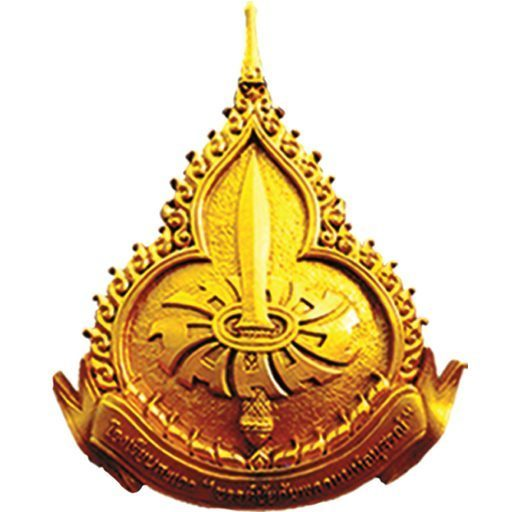
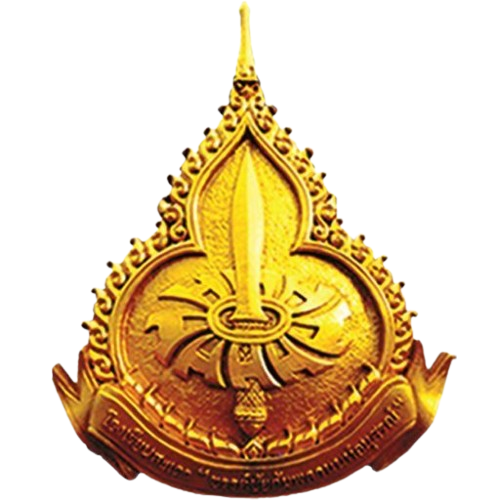
Add files via upload

diff --git a/assets/style.css b/assets/style.css
@@ -1,23 +1,9 @@
-:root{color-scheme:light;--purple:#7851c8;--ink:#37254f;--muted:#81708f;--edge:#ffffffc9;--glass:#ffffff85;--shadow:0 22px 60px #68459c19,0 4px 12px #7951b80c}*{box-sizing:border-box}body{margin:0;min-height:100vh;min-height:100svh;background:#f0e9fc;color:var(--ink);font-family:"Leelawadee UI","Noto Sans Thai",Tahoma,sans-serif;font-size:15px;line-height:1.6}button,input{font:inherit}button{cursor:pointer;-webkit-tap-highlight-color:transparent}[hidden]{display:none!important}.glass-scene{position:fixed;inset:0;overflow:hidden;pointer-events:none;z-index:-1;background:linear-gradient(135deg,#f8f5ff 0%,#e8def9 50%,#f5eefa 100%)}.color-pool{position:absolute;border-radius:50%;filter:blur(45px);opacity:.75;animation:flow 20s ease-in-out infinite alternate}.pool-one{width:430px;height:430px;background:radial-gradient(circle,#b491ec,#d6bdf5 65%,transparent 75%);top:-180px;left:calc(50% - 440px)}.pool-two{width:400px;height:400px;background:radial-gradient(circle,#d2afe8,#e3c9f4 65%,transparent 75%);top:280px;right:calc(50% - 520px);animation-delay:-9s;animation-duration:25s}.pool-three{width:330px;height:330px;background:radial-gradient(circle,#bfc2f9,#d8d6fb 65%,transparent 75%);bottom:-170px;left:calc(50% - 370px);animation-delay:-14s}.glass-orb{position:absolute;border-radius:50%;border:1px solid #ffffffbb;background:radial-gradient(circle at 26% 20%,#ffffffa1,transparent 46%),linear-gradient(140deg,#ffffff22,#c1a2e64d);box-shadow:inset 4px 6px 15px #ffffffc2,inset -8px -10px 24px #a880ca30,0 18px 35px #8a66ba18;animation:bob 9s ease-in-out infinite}.orb-one{width:106px;height:106px;left:calc(50% - 420px);top:22%}.orb-two{width:65px;height:65px;right:calc(50% - 397px);top:66%;animation-delay:-4s}main{width:min(620px,calc(100% - 36px));margin:clamp(48px,11vh,120px) auto 45px;animation:page-in .6s ease both}.search-shell{position:relative;isolation:isolate;padding:34px 30px 30px;border:1px solid var(--edge);border-radius:32px;background:linear-gradient(140deg,#ffffffa6,#ffffff63);box-shadow:var(--shadow),inset 0 1px 1px #ffffffed,inset 0 -1px 1px #ffffff70;backdrop-filter:blur(26px) saturate(145%);-webkit-backdrop-filter:blur(26px) saturate(145%)}.search-shell:before{content:"";position:absolute;inset:0;border-radius:inherit;pointer-events:none;background:linear-gradient(120deg,#ffffff8c,transparent 25% 74%,#ffffff32);z-index:-1}header{text-align:center;padding:0 0 25px}.search-emblem{position:relative;display:grid;place-items:center;width:62px;height:62px;border-radius:22px;margin:0 auto 17px;background:linear-gradient(145deg,#b48bea,#8253c8);border:1px solid #ffffff8c;box-shadow:0 12px 20px #8253c833,0 2px 5px #764ba21c,inset 0 2px 3px #ffffff8a,inset 0 -3px 6px #6f3cb44d;animation:icon-float 7s ease-in-out infinite;overflow:hidden}.search-emblem:after{content:"";position:absolute;inset:-40%;background:linear-gradient(110deg,transparent 35%,#ffffff47 49%,transparent 63%);transform:translateX(-100%);animation:sheen 8s ease-in-out infinite}.search-emblem svg{width:30px;height:30px;fill:none;stroke:white;stroke-width:1.9;stroke-linecap:round;filter:drop-shadow(0 2px 1px #66339833)}h1{font-size:29px;line-height:1.45;letter-spacing:-.5px;font-weight:750;margin:0;color:#49315f;text-shadow:0 1px 0 #fff}header p{display:inline-flex;align-items:center;gap:10px;color:#8b739f;font-size:12px;margin:10px 0 0}header p span{font-size:10px;background:#ffffff78;border:1px solid #ffffffa6;border-radius:8px;color:#987aaf;padding:2px 7px}.search-box{display:flex;align-items:center;min-width:0;border:1px solid #d5c5eab3;border-radius:18px;background:#ffffffad;box-shadow:inset 0 2px 5px #7551a60d,0 2px 0 #ffffffd9,0 5px 18px #7951b808;transition:border-color .2s,box-shadow .2s,background .2s;backdrop-filter:blur(14px);-webkit-backdrop-filter:blur(14px)}.search-box:focus-within{border-color:#ae86df;background:#ffffffe0;box-shadow:0 0 0 4px #a77edb14,0 8px 25px #7951b814,inset 0 1px 3px #7951b808}.search-box>svg{width:23px;height:23px;fill:none;stroke:#a184b9;stroke-width:1.7;stroke-linecap:round;margin-left:17px;flex-shrink:0;transition:stroke .2s,transform .2s}.search-box:focus-within>svg{stroke:#8652ba;transform:scale(1.05)}input{width:100%;min-width:0;border:0;background:transparent;outline:none;color:var(--ink);font-size:15px;padding:18px 12px}input::placeholder{color:#ad9abc}input::-webkit-search-cancel-button{display:none}.clear{flex-shrink:0;border:1px solid transparent;background:transparent;color:#a28cb5;width:31px;height:31px;margin-right:11px;border-radius:10px;font-size:23px;transition:background .2s,transform .2s}.clear:hover{background:#f2eaf9;border-color:#e5d5f1;transform:scale(1.05)}button:focus-visible{outline:3px solid #ac83d7;outline-offset:3px}.results-section{margin-top:24px;scroll-margin-top:22px}#summary{font-size:11px;color:#8a719d;margin:0 4px 12px}.cards{display:grid;gap:13px}.result-card{position:relative;isolation:isolate;display:flex;align-items:center;justify-content:space-between;gap:18px;padding:20px 22px;border:1px solid #ffffffcc;border-radius:23px;background:linear-gradient(130deg,#ffffffbb,#ffffff6b);box-shadow:0 8px 24px #68459c10,0 1px 4px #7951b809,inset 0 1px 0 #fffffff0;backdrop-filter:blur(20px) saturate(130%);-webkit-backdrop-filter:blur(20px) saturate(130%);transition:transform .2s,box-shadow .2s,border-color .2s}.result-card[data-enter="true"]{animation:card-in .35s cubic-bezier(.2,.8,.2,1) both;animation-delay:var(--delay,0ms)}.result-card:before{content:"";position:absolute;inset:0;border-radius:inherit;pointer-events:none;z-index:-1;background:linear-gradient(110deg,#ffffff66,transparent 45%);opacity:.6;transition:opacity .2s}.result-card:hover{transform:translateY(-3px);border-color:#fff;box-shadow:0 17px 32px #68459c1c,0 3px 8px #7951b80b,inset 0 1px 0 #fff}.result-card:hover:before{opacity:1}.candidate{min-width:0}.candidate h2{font-size:16px;line-height:1.6;font-weight:650;margin:0;overflow-wrap:anywhere}.candidate-meta{display:flex;align-items:center;gap:10px;flex-wrap:wrap;font-size:11px;color:#9b86ad;margin-top:8px}.level{border:1px solid #ffffffbd;border-radius:8px;padding:3px 9px;background:linear-gradient(135deg,#eee3fbb3,#f4edfb8c);color:#8a62ac;white-space:nowrap;box-shadow:0 2px 5px #7951b808,inset 0 1px 0 #ffffffa8;font-weight:600}.room{position:relative;text-align:center;flex-shrink:0;min-width:76px;padding:10px 14px;border:1px solid #ffffffb5;border-radius:17px;background:linear-gradient(145deg,#f3eafa,#e1d0f4b3);box-shadow:0 7px 15px #8662b51a,inset 0 2px 2px #ffffffb8,inset 0 -2px 5px #b79aca21;transition:transform .2s}.result-card:hover .room{transform:translateY(-1px)}.room span{display:block;color:#9d80b6;font-size:10px}.room strong{display:block;color:#8051ba;font-size:31px;line-height:1.3;font-weight:750;text-shadow:0 1px 0 #ffffffbf}.empty{font-size:13px;color:var(--muted);text-align:center;background:#ffffff85;border:1px solid #ffffffad;border-radius:20px;padding:24px 14px;margin:0;box-shadow:0 8px 20px #7951b80c;backdrop-filter:blur(16px);-webkit-backdrop-filter:blur(16px)}.pagination{display:flex;align-items:center;justify-content:center;gap:20px;margin-top:22px}.pagination button{display:grid;place-items:center;width:39px;height:39px;border-radius:12px;border:1px solid #ffffffd9;color:#8d64b4;background:linear-gradient(145deg,#ffffffcf,#ffffff70);box-shadow:0 5px 13px #7951b814,inset 0 1px 0 #fff;backdrop-filter:blur(12px);-webkit-backdrop-filter:blur(12px);transition:transform .2s,box-shadow .2s}.pagination button:hover:not(:disabled){transform:translateY(-2px);box-shadow:0 8px 17px #7951b820}.pagination button:active:not(:disabled){transform:scale(.95)}.pagination button:disabled{opacity:.35;cursor:default}.pagination span{font-size:11px;color:#8f76a3}.sr-only{position:absolute;width:1px;height:1px;padding:0;margin:-1px;overflow:hidden;clip:rect(0,0,0,0);white-space:nowrap;border:0}.noscript{font-size:13px;text-align:center;color:var(--muted)}
-@keyframes flow{from{transform:translate(-15px,-15px) scale(.95)}to{transform:translate(30px,35px) scale(1.1)}}@keyframes bob{0%,100%{transform:translateY(0)}50%{transform:translateY(-16px)}}@keyframes icon-float{0%,100%{transform:translateY(0) rotate(-3deg)}50%{transform:translateY(-4px) rotate(2deg)}}@keyframes sheen{0%,60%{transform:translateX(-100%)}85%,100%{transform:translateX(100%)}}@keyframes page-in{from{opacity:0;transform:translateY(12px)}to{opacity:1;transform:translateY(0)}}@keyframes card-in{from{opacity:0;translate:0 9px}to{opacity:1;translate:0 0}}
-@media(max-width:600px){main{margin-top:clamp(38px,8svh,80px)}.search-shell{padding:29px 20px 23px;border-radius:28px}.search-emblem{width:56px;height:56px;border-radius:19px;margin-bottom:15px}.search-emblem svg{width:27px;height:27px}header{padding-bottom:23px}h1{font-size:27px}header p{font-size:11px;gap:8px}.search-box{border-radius:15px}.search-box>svg{width:21px;height:21px;margin-left:13px}input{font-size:16px;padding:16px 10px}input::placeholder{font-size:12px}.clear{margin-right:7px;width:27px}.result-card{padding:17px 15px;gap:12px;border-radius:20px}.candidate h2{font-size:14px}.candidate-meta{font-size:10px;gap:7px}.room{min-width:65px;padding:8px 11px;border-radius:14px}.room strong{font-size:28px}.room span{font-size:9px}.orb-one{width:68px;height:68px;left:-28px;top:35%}.orb-two{right:-18px;top:12%;width:50px;height:50px}.pool-one{left:-200px}.pool-two{right:-210px}.pool-three{left:-130px}}
-@supports not ((backdrop-filter:blur(1px)) or (-webkit-backdrop-filter:blur(1px))){.search-shell,.result-card,.empty{background:#faf7ffe8}.search-box{background:#fff}}
+:root{color-scheme:light;--ink:#344054;--muted:#8490a2;--accent:#74709b;--border:#ffffffd9;--shadow:0 16px 48px #46546a0a,0 2px 6px #46546a06}*{box-sizing:border-box}body{margin:0;min-height:100vh;min-height:100svh;background:#f5f6fa;color:var(--ink);font-family:"Leelawadee UI","Noto Sans Thai",Tahoma,sans-serif;font-size:15px;line-height:1.6}button,input{font:inherit}button{cursor:pointer;-webkit-tap-highlight-color:transparent}[hidden]{display:none!important}.glass-scene{position:fixed;inset:0;overflow:hidden;pointer-events:none;z-index:-1;background:linear-gradient(140deg,#fafbfe,#f2f4f9 55%,#f7f5fa)}.color-pool{position:absolute;border-radius:50%;filter:blur(65px);opacity:.4;animation:flow 24s ease-in-out infinite alternate}.pool-one{width:430px;height:400px;left:calc(50% - 450px);top:-160px;background:#dfd9ee}.pool-two{width:400px;height:400px;right:calc(50% - 520px);top:310px;background:#e4e1ee;animation-delay:-9s}.pool-three{width:350px;height:300px;left:calc(50% - 200px);bottom:-180px;background:#dce6f2;animation-delay:-15s}.glass-orb{position:absolute;border-radius:50%;border:1px solid #ffffffd9;background:radial-gradient(circle at 28% 18%,#ffffffbf,transparent 55%),linear-gradient(140deg,#ffffff20,#dce1eb32);box-shadow:inset 3px 4px 13px #ffffffd9,inset -5px -7px 18px #bcc4d71a,0 12px 30px #a1a8bb0c;animation:bob 11s ease-in-out infinite}.orb-one{width:85px;height:85px;left:calc(50% - 445px);top:26%}.orb-two{width:49px;height:49px;right:calc(50% - 435px);top:67%;animation-delay:-5s}main{width:min(680px,calc(100% - 36px));margin:clamp(32px,7vh,80px) auto 48px;animation:page-in .5s ease both}.search-shell{position:relative;padding:30px 32px 29px;border:1px solid var(--border);border-radius:28px;background:linear-gradient(140deg,#ffffffcf,#ffffff91);box-shadow:var(--shadow),inset 0 1px 0 #fff;backdrop-filter:blur(24px) saturate(115%);-webkit-backdrop-filter:blur(24px) saturate(115%)}header{text-align:center;padding-bottom:24px}.school-crest{width:87px;height:87px;margin:0 auto 13px;padding:0;border:0;background:transparent;box-shadow:none}.school-crest img{display:block;width:100%;height:100%;object-fit:contain;border-radius:0;filter:drop-shadow(0 5px 5px #6d563724)}.school-name{display:block;white-space:nowrap;font-size:16px;font-weight:600;line-height:1.6;letter-spacing:-.2px;margin:0 0 20px;color:#667187}h1{margin:0;font-size:28px;line-height:1.45;font-weight:750;letter-spacing:-.7px;color:#344054}header p{display:inline-flex;align-items:center;gap:9px;margin:9px 0 0;font-size:12px;color:#9198a9}header p span{font-size:10px;color:#8f87a6;padding:2px 7px;border:1px solid #ece9f2;border-radius:6px;background:#f5f3f9}.search-box{display:flex;align-items:center;min-width:0;border:1px solid #dfe3ec;border-radius:15px;background:#ffffffd9;box-shadow:inset 0 2px 4px #46546a04,0 3px 8px #46546a03;transition:border-color .2s,box-shadow .2s}.search-box:focus-within{border-color:#a8a2c4;box-shadow:0 0 0 4px #a8a2c410,0 5px 17px #46546a06}.search-box>svg{flex-shrink:0;width:21px;height:21px;fill:none;stroke:#9ba6b8;stroke-width:1.6;stroke-linecap:round;margin-left:17px;transition:stroke .2s}.search-box:focus-within>svg{stroke:#82769e}input{width:100%;min-width:0;border:0;outline:none;background:transparent;padding:17px 12px;font-size:15px;color:var(--ink)}input::placeholder{color:#a5adbc}input::-webkit-search-cancel-button{display:none}.clear{width:29px;height:29px;margin-right:11px;border:0;background:transparent;color:#9ca6b7;font-size:22px;border-radius:9px;flex-shrink:0}.clear:hover{background:#f2f3f7}button:focus-visible{outline:3px solid #a9a0c2;outline-offset:3px}.results-section{margin-top:23px;scroll-margin-top:20px}#summary{margin:0 3px 12px;color:#8f98a8;font-size:11px}.cards{display:grid;gap:14px}.result-card{display:grid;grid-template-columns:1.5fr 1fr 1fr;column-gap:14px;row-gap:18px;align-items:center;padding:22px 24px;border-radius:23px;border:1px solid var(--border);background:linear-gradient(130deg,#fffffff0,#ffffffb8);box-shadow:var(--shadow),inset 0 1px 0 #fff;backdrop-filter:blur(20px);-webkit-backdrop-filter:blur(20px);transition:box-shadow .2s,transform .2s}.result-card[data-enter="true"]{animation:card-in .3s ease both;animation-delay:var(--delay,0ms)}.result-card:hover{transform:translateY(-2px);box-shadow:0 18px 42px #46546a10,0 3px 8px #46546a06}.candidate{display:contents}.candidate h2{grid-column:1/3;grid-row:1;min-width:0;margin:0;font-size:16px;font-weight:650;line-height:1.65;overflow-wrap:anywhere;color:#40485a}.candidate-meta{grid-column:3;grid-row:1;justify-self:end;display:flex;gap:8px;align-items:center}.level{padding:3px 9px;border:1px solid #eeeaf5;border-radius:7px;background:#f4f1f9;color:#9784b2;font-size:10px;font-weight:600;white-space:nowrap}.exam-number{grid-column:1;grid-row:2;display:flex;flex-direction:column;gap:5px;min-width:0}.exam-number>span,.exam-group>span,.room>span{font-size:10px;font-weight:500;color:#949bae;line-height:1.5}.exam-number>strong{font-size:24px;line-height:1.35;color:#4f607c;letter-spacing:.4px;white-space:nowrap;font-variant-numeric:tabular-nums;font-weight:750}.exam-group{grid-column:2;grid-row:2;display:flex;flex-direction:column;gap:5px;min-width:0;border-left:1px solid #e9ecf2;padding-left:18px}.exam-group>strong{font-size:26px;line-height:1.25;font-weight:700;color:#716c8d}.room{grid-column:3;grid-row:2;justify-self:stretch;display:flex;align-items:center;flex-direction:column;gap:4px;padding:10px 12px;border-radius:15px;border:1px solid #e8e4f1;background:linear-gradient(145deg,#f7f5fb,#eeebf5);box-shadow:inset 0 1px 0 #ffffffd9,0 5px 12px #6865820a}.room>span{color:#9c91af;white-space:nowrap}.room>strong{font-size:29px;line-height:1.25;font-weight:750;color:#807094;letter-spacing:.3px}.empty{margin:0;padding:23px 12px;text-align:center;font-size:13px;color:#9199aa;background:#ffffffbf;border:1px solid #fff;border-radius:18px;box-shadow:var(--shadow)}.pagination{display:flex;align-items:center;justify-content:center;gap:20px;margin-top:22px}.pagination button{display:grid;place-items:center;width:37px;height:37px;border:1px solid #fff;border-radius:11px;color:#9384a7;background:#ffffffd9;box-shadow:0 4px 13px #46546a09;transition:transform .2s}.pagination button:hover:not(:disabled){transform:translateY(-2px)}.pagination button:disabled{opacity:.35;cursor:default}.pagination span{font-size:11px;color:#9a91a8}.sr-only{position:absolute;width:1px;height:1px;padding:0;margin:-1px;overflow:hidden;clip:rect(0,0,0,0);white-space:nowrap;border:0}.noscript{text-align:center;font-size:13px;color:#9199aa}
+@keyframes flow{from{transform:translate(-15px,-10px) scale(.97)}to{transform:translate(25px,25px) scale(1.08)}}@keyframes bob{0%,100%{transform:translateY(0)}50%{transform:translateY(-12px)}}@keyframes page-in{from{opacity:0;transform:translateY(10px)}to{opacity:1;transform:translateY(0)}}@keyframes card-in{from{opacity:0;translate:0 7px}to{opacity:1;translate:0 0}}
+@media(max-width:600px){main{margin-top:28px}.search-shell{padding:26px 18px 22px;border-radius:25px}.school-crest{width:78px;height:78px}.school-name{font-size:clamp(9px,2.8vw,16px);letter-spacing:-.2px;margin-bottom:19px}h1{font-size:26px}header{padding-bottom:22px}header p{font-size:11px}.search-box>svg{margin-left:12px;width:20px;height:20px}input{padding:15px 9px;font-size:16px}input::placeholder{font-size:12px}.clear{width:26px;margin-right:7px}.result-card{padding:18px 17px;border-radius:20px;grid-template-columns:1.45fr .85fr 1fr;column-gap:10px;row-gap:16px}.candidate h2{font-size:14px}.level{font-size:9px;padding:3px 7px}.exam-number>strong{font-size:clamp(17px,4.5vw,23px);letter-spacing:0}.exam-group{padding-left:10px}.exam-group>strong{font-size:23px}.exam-number>span,.exam-group>span,.room>span{font-size:9px}.room{padding:8px 7px;border-radius:12px}.room>strong{font-size:26px}.orb-one{left:-35px;width:64px;height:64px}.orb-two{right:-20px;top:14%}.pool-one{left:-220px}.pool-two{right:-240px}}
+@media(max-width:360px){main{width:calc(100% - 24px)}.search-shell{padding-left:14px;padding-right:14px}.school-name{font-size:9px}.result-card{padding:16px 13px;column-gap:8px}.exam-number>strong{font-size:16px}.exam-group{padding-left:8px}.exam-group>strong{font-size:21px}.room>strong{font-size:24px}.candidate h2{font-size:13px}.level{font-size:8px;padding:3px 6px}}
+@supports not ((backdrop-filter:blur(1px)) or (-webkit-backdrop-filter:blur(1px))){.search-shell,.result-card{background:#fffffff0}}
 @media(prefers-reduced-motion:reduce){*,*::before,*::after{animation:none!important;transition:none!important;scroll-behavior:auto!important}}
-
-/* Keep the original exam group separate from the physical classroom. */
-.exam-group{flex-basis:100%;font-size:11px;color:#806491}.room{min-width:91px}.room span{white-space:nowrap}.room strong{letter-spacing:.3px}
-@media(max-width:600px){.room{min-width:78px;padding:9px 10px}.room strong{font-size:27px}.room span{font-size:9px}.exam-group{font-size:10px}.candidate-meta{row-gap:6px}}
-
-/* School identity and prominent exam details. */
-.school-crest{width:104px;height:104px;margin:0 auto 15px;padding:6px;display:grid;place-items:center;border:1px solid #ffffffed;border-radius:24px;background:#fff;box-shadow:0 11px 25px #7651aa1c,inset 0 1px 0 #fff}
-.school-crest img{display:block;width:92px;height:92px;object-fit:contain;border-radius:17px}
-.school-name{font-size:17px;line-height:1.65;color:#62437f;font-weight:650;margin:0 0 19px;overflow-wrap:anywhere}
-.school-name span{display:block;font-size:16px}
-.candidate-meta{margin-top:7px}
-.exam-number{margin-top:13px;display:flex;flex-direction:column;gap:2px}
-.exam-number>span{font-size:11px;font-weight:600;color:#735d85}
-.exam-number>strong{font-size:25px;line-height:1.4;font-weight:800;color:#603493;letter-spacing:.6px;font-variant-numeric:tabular-nums;white-space:nowrap;text-shadow:0 1px 0 #ffffffb3}
-.exam-group{display:inline-flex;align-items:baseline;gap:7px;margin-top:10px;padding:5px 11px;border-radius:10px;border:1px solid #d5bdecb3;background:#ece0f9b8;color:#603886;font-size:16px;line-height:1.4;font-weight:700;flex-basis:auto;box-shadow:inset 0 1px 0 #ffffffb3}
-.exam-group strong{font-size:22px;font-weight:800;color:#623194}
-@media(max-width:600px){.school-crest{width:94px;height:94px;padding:5px;border-radius:22px;margin-bottom:13px}.school-crest img{width:82px;height:82px;border-radius:16px}.school-name{font-size:15px;margin-bottom:17px}.school-name span{font-size:14px}.exam-number{margin-top:11px}.exam-number>span{font-size:10px}.exam-number>strong{font-size:21px;letter-spacing:.3px}.exam-group{font-size:14px;gap:6px;padding:5px 9px;margin-top:9px}.exam-group strong{font-size:20px}.result-card{align-items:center}}
-@media(max-width:360px){.exam-number>strong{font-size:19px;letter-spacing:0}.exam-group{font-size:13px;padding:5px 7px}.exam-group strong{font-size:18px}.room{min-width:72px;padding:9px 8px}.result-card{gap:9px;padding:16px 12px}}
+/* Preserve large exam details on phones. */
+@media(max-width:600px){.result-card{grid-template-columns:minmax(0,1fr) 82px;row-gap:13px;column-gap:13px}.candidate h2{grid-column:1;grid-row:1}.candidate-meta{grid-column:2;grid-row:1}.exam-number{grid-column:1;grid-row:2}.exam-number>strong{font-size:22px;letter-spacing:.2px}.exam-group{grid-column:1;grid-row:3;flex-direction:row;align-items:baseline;gap:8px;padding-left:0;border-left:0}.exam-group>span{font-size:13px;color:#7f7892}.exam-group>strong{font-size:22px}.room{grid-column:2;grid-row:2/4;align-self:stretch;justify-content:center}.room>strong{font-size:28px}.room>span{font-size:9px}}
+@media(max-width:360px){.result-card{grid-template-columns:minmax(0,1fr) 74px;column-gap:10px}.exam-number>strong{font-size:20px}.exam-group>span{font-size:12px}.exam-group>strong{font-size:20px}}

diff --git a/index.html b/index.html
@@ -1,16 +1,16 @@
 <!doctype html>
 <html lang="th">
 <head>
-<meta charset="utf-8"><meta name="viewport" content="width=device-width,initial-scale=1"><meta name="theme-color" content="#7851c8">
+<meta charset="utf-8"><meta name="viewport" content="width=device-width,initial-scale=1"><meta name="theme-color" content="#f5f6fa">
 <title>ค้นหาห้องสอบ · ธรรมศึกษา 2569</title>
-<link rel="icon" href="assets/favicon.svg" type="image/svg+xml"><link rel="stylesheet" href="assets/style.css?v=crest-6">
-<script defer src="assets/data.js?v=crest-6"></script><script defer src="assets/app.js?v=crest-6"></script>
+<link rel="icon" href="assets/favicon.svg" type="image/svg+xml"><link rel="stylesheet" href="assets/style.css?v=refined-7">
+<script defer src="assets/data.js?v=refined-7"></script><script defer src="assets/app.js?v=refined-7"></script>
 </head>
 <body>
 <div class="glass-scene" aria-hidden="true"><div class="color-pool pool-one"></div><div class="color-pool pool-two"></div><div class="color-pool pool-three"></div><div class="glass-orb orb-one"></div><div class="glass-orb orb-two"></div></div>
 <main id="app">
 <section class="search-shell" aria-labelledby="title">
-<header><div class="school-crest"><img src="assets/school-crest.png" alt="ตราโรงเรียนสะเดา ขรรค์ชัยกัมพลานนท์อนุสรณ์" width="92" height="92"></div><h2 class="school-name">โรงเรียนสะเดา <span>"ขรรค์ชัยกัมพลานนท์อนุสรณ์"</span></h2><h1 id="title">ค้นหาห้องสอบ</h1><p>ธรรมศึกษา ตรี · โท · เอก <span>2569</span></p></header>
+<header><div class="school-crest"><img src="assets/school-crest.png" alt="ตราโรงเรียนสะเดา ขรรค์ชัยกัมพลานนท์อนุสรณ์" width="92" height="92"></div><h2 class="school-name">โรงเรียนสะเดา "ขรรค์ชัยกัมพลานนท์อนุสรณ์"</h2><h1 id="title">ค้นหาห้องสอบ</h1><p>ธรรมศึกษา ตรี · โท · เอก <span>2569</span></p></header>
 <form id="search-form" role="search"><label class="sr-only" for="query">ชื่อหรือนามสกุล</label><div class="search-box"><svg viewBox="0 0 24 24" aria-hidden="true"><circle cx="10.5" cy="10.5" r="6.5"></circle><path d="m16 16 4.5 4.5"></path></svg><input id="query" type="search" placeholder="พิมพ์ชื่อหรือนามสกุล เพียงบางคำ" autocomplete="off" enterkeyhint="search" maxlength="200" aria-controls="results"><button id="clear-query" class="clear" type="button" aria-label="ล้างคำค้น" hidden>×</button></div></form>
 </section>
 <section id="results-section" class="results-section" aria-label="ผลการค้นหา" hidden><p id="summary" role="status" aria-live="polite" aria-atomic="true"></p><div id="results"></div><nav id="pagination" class="pagination" aria-label="หน้าผลการค้นหา" hidden><button id="prev" type="button" aria-label="หน้าก่อนหน้า">←</button><span id="page-label"></span><button id="next" type="button" aria-label="หน้าถัดไป">→</button></nav></section>

diff --git a/assets/app.js b/assets/app.js
@@ -18,7 +18,7 @@
     const pages=Math.max(1,Math.ceil(matches.length/pageSize));
     page=Math.max(1,Math.min(page,pages));
     const pageRecords=matches.slice((page-1)*pageSize,page*pageSize);
-    $('results').innerHTML=matches.length?'<div class="cards">'+pageRecords.map((r,i)=>`<article class="result-card" data-enter="${!visibleKeys.has(r.level+r.number)}" style="--delay:${i*22}ms"><div class="candidate"><h2>${escape(r.firstName)} ${escape(r.lastName)}</h2><div class="candidate-meta"><span class="level">ชั้น${escape(r.level)}</span></div><div class="exam-number"><span>เลขที่สอบ</span><strong>${escape(r.number)}</strong></div><div class="exam-group">ห้องสอบที่ <strong>${escape(r.room)}</strong></div></div><div class="room"><span>หมายเลขห้อง</span><strong>${escape(r.classroom || '—')}</strong></div></article>`).join('')+'</div>':'<p class="empty">ลองตรวจการสะกดอีกครั้ง</p>';
+    $('results').innerHTML=matches.length?'<div class="cards">'+pageRecords.map((r,i)=>`<article class="result-card" data-enter="${!visibleKeys.has(r.level+r.number)}" style="--delay:${i*22}ms"><div class="candidate"><h2>${escape(r.firstName)} ${escape(r.lastName)}</h2><div class="candidate-meta"><span class="level">ชั้น${escape(r.level)}</span></div><div class="exam-number"><span>เลขที่สอบ</span><strong>${escape(r.number)}</strong></div><div class="exam-group"><span>ห้องสอบที่</span><strong>${escape(r.room)}</strong></div></div><div class="room"><span>หมายเลขห้อง</span><strong>${escape(r.classroom || '—')}</strong></div></article>`).join('')+'</div>':'<p class="empty">ลองตรวจการสะกดอีกครั้ง</p>';
     visibleKeys=new Set(pageRecords.map(r=>r.level+r.number));
     $('pagination').hidden=pages===1;
     $('prev').disabled=page===1;$('next').disabled=page===pages;
